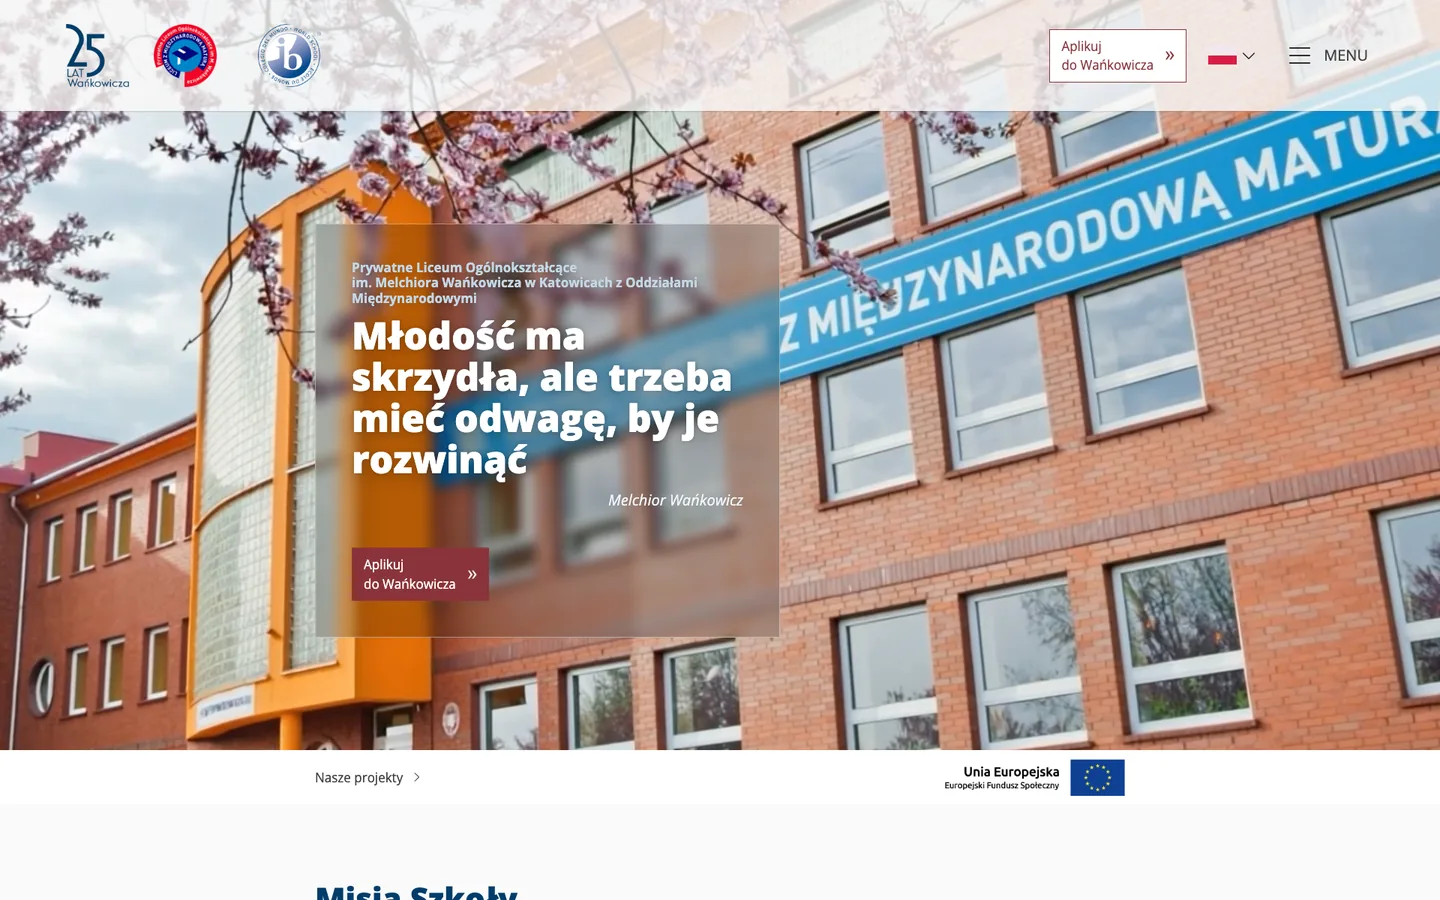
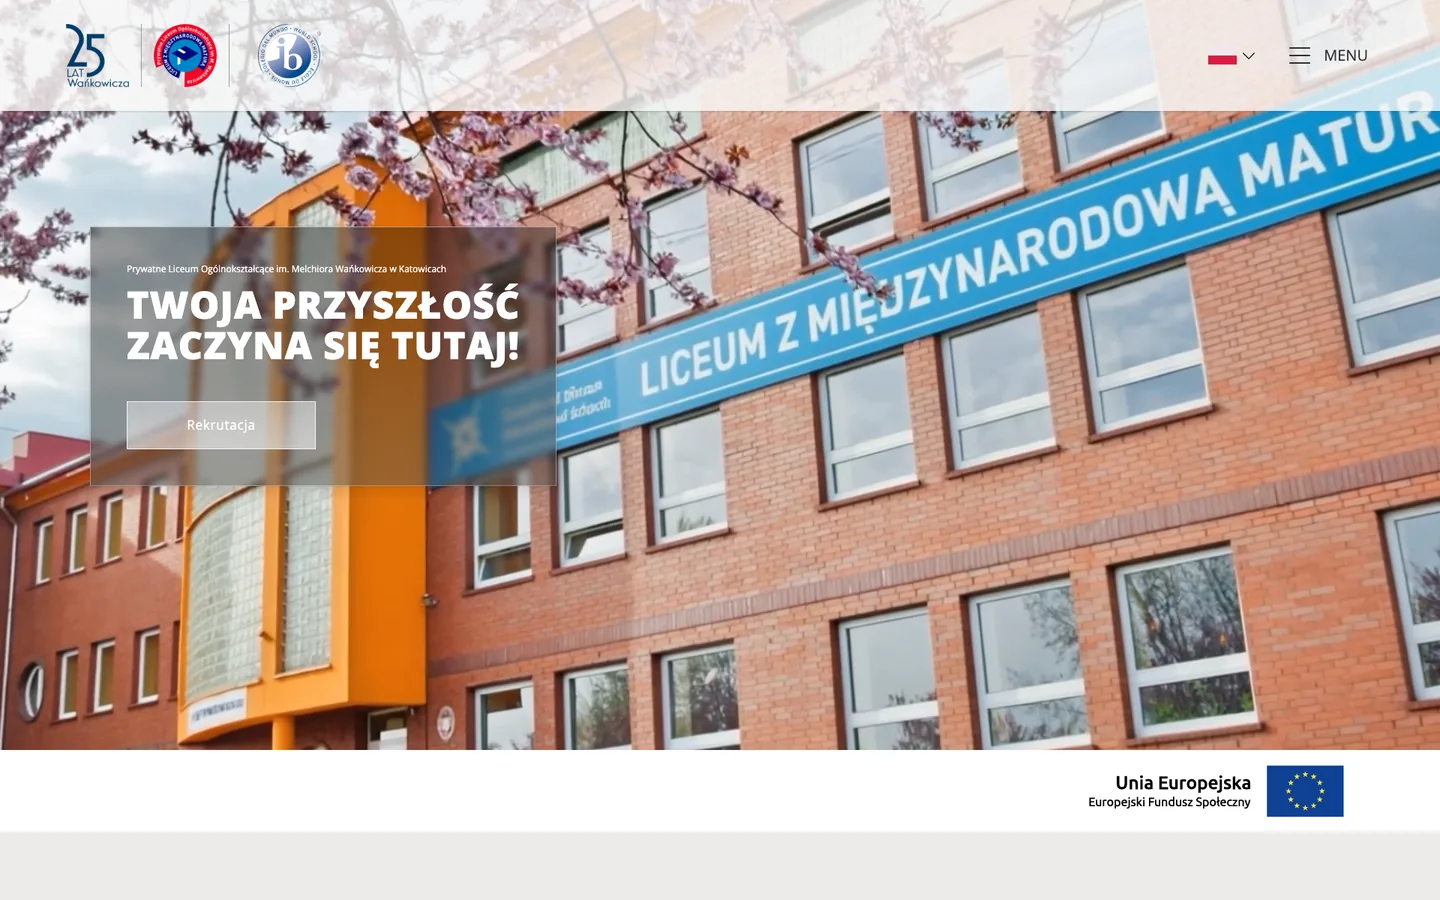
Wańkowicz: compare the new version with the code from 14 Oct 2025, recount view, colour and px numbers; fewer screenshots in both galleries

diff --git a/content/en/projects/2026/wankowicz/index.md b/content/en/projects/2026/wankowicz/index.md
@@ -8,14 +8,14 @@ featured: false
 draft: false
 agency: Pesi
 stack: [Laravel Blade, Alpine.js, Vue 3, Tailwind CSS v4]
-note: Work in progress – the new version isn't published yet. I do the refactor on a separate branch, in parallel with ongoing changes to the current website.
+note: 'Work in progress – the new version isn''t published yet. I compare it with the code I took over: the state from 14 Oct 2025, the last one before my changes.'
 facts:
-  - value: '73 → 35'
+  - value: '65 → 35'
     text: page views – English copies replaced with one view for both languages
-  - value: '85 → 0'
+  - value: '23 → 0'
     text: hard-coded colours in templates – all of them now through tokens
-  - value: '692 → 53'
-    text: pixel sizes in classes – the rest in rem, so text scales with the settings
+  - value: '353 → 53'
+    text: sizes hard-coded in pixels, e.g. text-[15px] – the rest in rem, so they grow with enlarged text
   - value: '88%'
     text: of the current front-end of the new version is my code
 cover:
@@ -29,8 +29,8 @@ compare:
     src: /projects/2026/wankowicz/old-home-top.webp
     width: 1440
     height: 900
-    label: Before · current version
-    alt: The current school website – the first screen
+    label: Before · before I joined (Oct 2025)
+    alt: The school website in October 2025 – the first screen
   after:
     src: /projects/2026/wankowicz/home-top.webp
     width: 1440
@@ -38,40 +38,44 @@ compare:
     label: After · new version
     alt: The new version of the school website – the first screen
   rows:
-    - { label: Page view files, before: '73', after: '35' }
-    - { label: View copies for the EN version, before: '34', after: '0' }
-    - { label: Hard-coded colours, before: '85', after: '0' }
-    - { label: Pixel sizes in classes, before: '692', after: '53' }
-  note: Numbers from the code of both versions (Blade views). The new version is on a separate branch; screenshots from the local version.
+    - { label: Page view files, before: '65', after: '35' }
+    - { label: View copies for the EN version, before: '31', after: '0' }
+    - { label: Hard-coded colours, before: '23', after: '0' }
+    - { label: 'Sizes hard-coded in px (e.g. text-[15px])', before: '353', after: '53' }
+  note: 'Numbers from the Blade views. Before – the code from 14 Oct 2025, the last state before my changes; after – the new version on a separate branch. Screenshots from local versions; news in the old version comes from today''s database.'
 ogImage: /og/projects/wankowicz-en.jpg
-galleryLead: Screenshots from the local version before publishing. Click a screenshot to enlarge it.
+galleryLead: Screenshots from local versions – the new version and the code from October 2025. Click a screenshot to enlarge it.
 gallery:
-  - src: /projects/2026/wankowicz/home-high-contrast-top.webp
+  - src: /projects/2026/wankowicz/content-page-full.webp
+    full: true
+    alt: The About us page
+    caption: A content page – About us
+  - src: /projects/2026/wankowicz/home-text-200-top.webp
     width: 1440
     height: 900
-    alt: High contrast mode
-    caption: High contrast mode – black background, white and yellow text, the background photo hidden
-  - src: /projects/2026/wankowicz/home-en-top.webp
+    alt: Text at 200% in the new version
+    caption: New version – text at 200%, the heading and buttons grow with the content
+  - src: /projects/2026/wankowicz/old-home-text-200-top.webp
     width: 1440
     height: 900
-    alt: The English home page
-    caption: English version – the same view, texts from language files
+    alt: Text at 200% in the October 2025 version
+    caption: October 2025 version – text at 200% for comparison
   - src: /projects/2026/wankowicz/recruitment-full.webp
     full: true
     alt: The admission form in the new version
     caption: Admission form, step 1 – new version
   - src: /projects/2026/wankowicz/old-recruitment-full.webp
     full: true
-    alt: The admission form in the current version
-    caption: Admission form, step 1 – current version
+    alt: The admission form in the October 2025 version
+    caption: Admission form – October 2025 version
   - src: /projects/2026/wankowicz/home-full.webp
     full: true
     alt: The home page of the new version
     caption: Home page – the whole page
-  - src: /projects/2026/wankowicz/content-page-full.webp
+  - src: /projects/2026/wankowicz/old-home-full.webp
     full: true
-    alt: The About us page
-    caption: A content page – About us
+    alt: The home page in the October 2025 version
+    caption: Home page – October 2025 version, the whole page
 highlights:
   - title: One view for two languages
     text: The old website had a separate copy of the view for the English version. Now every page has one view, and the texts are in language files. A section can be hidden in only one language, and a missing translation shows the Polish text.
@@ -83,7 +87,7 @@ highlights:
     text: I wrote the refactor conventions in one file in the repository – sizes, colours, translations, icons and a WCAG checklist for every new page.
 ---
 
-The website of the Melchior Wańkowicz High School has a Polish and an English version and an accessibility panel: bigger text, high contrast and more readable fonts. I work on the current version in the Pesi team, and since July 2026 I've been preparing its new version. I do the refactor on a separate branch and compare the pages side by side, because the school keeps sending changes for the current version.
+The website of the Melchior Wańkowicz High School has a Polish and an English version and an accessibility panel: bigger text, high contrast and more readable fonts. I've worked on this website in the Pesi team since October 2025, and since July 2026 I've been rewriting its front-end. I do the refactor on a separate branch, because the school keeps sending changes for the current version. The comparisons below show the code and design I took over – the state from 14 Oct 2025.
 
 ## What I'm changing
 

diff --git a/content/pl/projects/2026/wankowicz/index.md b/content/pl/projects/2026/wankowicz/index.md
@@ -8,14 +8,14 @@ featured: false
 draft: false
 agency: Pesi
 stack: [Laravel Blade, Alpine.js, Vue 3, Tailwind CSS v4]
-note: Projekt w toku – nowa wersja nie jest jeszcze opublikowana. Refaktor robię na osobnej gałęzi, równolegle z bieżącymi zmianami na obecnej stronie.
+note: 'Projekt w toku – nowa wersja nie jest jeszcze opublikowana. Porównuję ją z kodem, który zastałem: stan z 14.10.2025, ostatni przed moimi zmianami.'
 facts:
-  - value: '73 → 35'
+  - value: '65 → 35'
     text: widoków stron – angielskie kopie zastąpione jednym widokiem na oba języki
-  - value: '85 → 0'
+  - value: '23 → 0'
     text: kolorów wpisanych na sztywno w szablonach – wszystkie przez tokeny
-  - value: '692 → 53'
-    text: rozmiarów w pikselach w klasach – reszta w rem, żeby tekst skalował się razem z ustawieniami
+  - value: '353 → 53'
+    text: rozmiarów wpisanych w pikselach, np. text-[15px] – reszta w rem, więc rośnie razem z powiększonym tekstem
   - value: '88%'
     text: obecnego front-endu nowej wersji to mój kod
 cover:
@@ -29,8 +29,8 @@ compare:
     src: /projects/2026/wankowicz/old-home-top.webp
     width: 1440
     height: 900
-    label: Przed · obecna wersja
-    alt: Obecna strona liceum – pierwszy ekran
+    label: Przed · zanim dołączyłem (paź 2025)
+    alt: Strona liceum w październiku 2025 – pierwszy ekran
   after:
     src: /projects/2026/wankowicz/home-top.webp
     width: 1440
@@ -38,40 +38,44 @@ compare:
     label: Po · nowa wersja
     alt: Nowa wersja strony liceum – pierwszy ekran
   rows:
-    - { label: Pliki widoków stron, before: '73', after: '35' }
-    - { label: Kopie widoków dla wersji EN, before: '34', after: '0' }
-    - { label: Kolory wpisane na sztywno, before: '85', after: '0' }
-    - { label: Rozmiary w pikselach w klasach, before: '692', after: '53' }
-  note: Liczby z kodu obu wersji (widoki Blade). Nowa wersja na osobnej gałęzi, zrzuty z wersji lokalnej.
+    - { label: Pliki widoków stron, before: '65', after: '35' }
+    - { label: Kopie widoków dla wersji EN, before: '31', after: '0' }
+    - { label: Kolory wpisane na sztywno, before: '23', after: '0' }
+    - { label: 'Rozmiary wpisane w px (np. text-[15px])', before: '353', after: '53' }
+  note: 'Liczby z widoków Blade. Przed – kod z 14.10.2025, ostatni stan przed moimi zmianami; po – nowa wersja na osobnej gałęzi. Zrzuty z wersji lokalnych, aktualności w starej wersji pochodzą z dzisiejszej bazy.'
 ogImage: /og/projects/wankowicz-pl.jpg
-galleryLead: Zrzuty z wersji lokalnej przed publikacją. Kliknij zrzut, żeby go powiększyć.
+galleryLead: Zrzuty z wersji lokalnych – nowa wersja i kod z października 2025. Kliknij zrzut, żeby go powiększyć.
 gallery:
-  - src: /projects/2026/wankowicz/home-high-contrast-top.webp
+  - src: /projects/2026/wankowicz/content-page-full.webp
+    full: true
+    alt: Podstrona O nas
+    caption: Podstrona z treścią – O nas
+  - src: /projects/2026/wankowicz/home-text-200-top.webp
     width: 1440
     height: 900
-    alt: Tryb wysokiego kontrastu
-    caption: Tryb wysokiego kontrastu – czarne tło, białe i żółte teksty, zdjęcie w tle ukryte
-  - src: /projects/2026/wankowicz/home-en-top.webp
+    alt: Tekst powiększony do 200% w nowej wersji
+    caption: Nowa wersja – tekst 200%, nagłówek i przyciski rosną razem z treścią
+  - src: /projects/2026/wankowicz/old-home-text-200-top.webp
     width: 1440
     height: 900
-    alt: Angielska wersja strony głównej
-    caption: Wersja angielska – ten sam widok, teksty z plików językowych
+    alt: Tekst powiększony do 200% w wersji z października 2025
+    caption: Wersja z października 2025 – tekst 200% dla porównania
   - src: /projects/2026/wankowicz/recruitment-full.webp
     full: true
     alt: Formularz rekrutacyjny w nowej wersji
     caption: Formularz rekrutacyjny, krok 1 – nowa wersja
   - src: /projects/2026/wankowicz/old-recruitment-full.webp
     full: true
-    alt: Formularz rekrutacyjny w obecnej wersji
-    caption: Formularz rekrutacyjny, krok 1 – obecna wersja
+    alt: Formularz rekrutacyjny w wersji z października 2025
+    caption: Formularz rekrutacyjny – wersja z października 2025
   - src: /projects/2026/wankowicz/home-full.webp
     full: true
     alt: Strona główna nowej wersji
     caption: Strona główna – cała
-  - src: /projects/2026/wankowicz/content-page-full.webp
+  - src: /projects/2026/wankowicz/old-home-full.webp
     full: true
-    alt: Podstrona O nas
-    caption: Podstrona z treścią – O nas
+    alt: Strona główna w wersji z października 2025
+    caption: Strona główna – wersja z października 2025, cała
 highlights:
   - title: Jeden widok na dwa języki
     text: Stara strona miała osobną kopię widoku dla wersji angielskiej. Teraz każda strona ma jeden widok, a teksty są w plikach językowych. Sekcję można ukryć tylko w jednym języku, a brakujące tłumaczenie pokazuje tekst polski.
@@ -83,7 +87,7 @@ highlights:
     text: Konwencje refaktoru spisałem w jednym pliku w repozytorium – rozmiary, kolory, tłumaczenia, ikony i lista kontrolna WCAG dla każdej nowej strony.
 ---
 
-Strona liceum im. Melchiora Wańkowicza ma wersję polską i angielską oraz panel z ustawieniami dostępności: większy tekst, wysoki kontrast i czytelniejsze fonty. Przy obecnej wersji pracuję w zespole Pesi, a od lipca 2026 przygotowuję jej nową wersję. Refaktor robię na osobnej gałęzi, a strony porównuję obok siebie, bo szkoła cały czas dosyła zmiany do obecnej wersji.
+Strona liceum im. Melchiora Wańkowicza ma wersję polską i angielską oraz panel z ustawieniami dostępności: większy tekst, wysoki kontrast i czytelniejsze fonty. Przy tej stronie pracuję w zespole Pesi od października 2025, a od lipca 2026 piszę jej front-end od nowa. Refaktor robię na osobnej gałęzi, bo szkoła cały czas dosyła zmiany do obecnej wersji. Porównania poniżej pokazują kod i wygląd, które zastałem – stan z 14.10.2025.
 
 ## Co zmieniam
 

diff --git a/content/pl/projects/2026/agrestapp/index.md b/content/pl/projects/2026/agrestapp/index.md
@@ -34,11 +34,6 @@ gallery:
     height: 900
     alt: Analityka w trybie porównania
     caption: Analityka – zakres dat z suwakiem i polami, porównanie dwóch okresów, oszczędności i wykres (zmyślone dane)
-  - src: /projects/2026/agrestapp/pricing-toggle-top.webp
-    width: 1440
-    height: 900
-    alt: Cennik z przełącznikiem płatności
-    caption: Cennik – przełącznik płatności standardowej i subskrypcji z kartą
   - src: /projects/2026/agrestapp/home-full.webp
     full: true
     alt: Strona główna AgrestApp

diff --git a/content/en/projects/2026/agrestapp/index.md b/content/en/projects/2026/agrestapp/index.md
@@ -34,11 +34,6 @@ gallery:
     height: 900
     alt: Analytics in compare mode
     caption: Analytics – a date range with a slider and fields, two periods compared, savings and a chart (made-up data)
-  - src: /projects/2026/agrestapp/pricing-toggle-top.webp
-    width: 1440
-    height: 900
-    alt: Pricing with a payment toggle
-    caption: Pricing – a toggle between a standard payment and a card subscription
   - src: /projects/2026/agrestapp/home-full.webp
     full: true
     alt: AgrestApp home page
